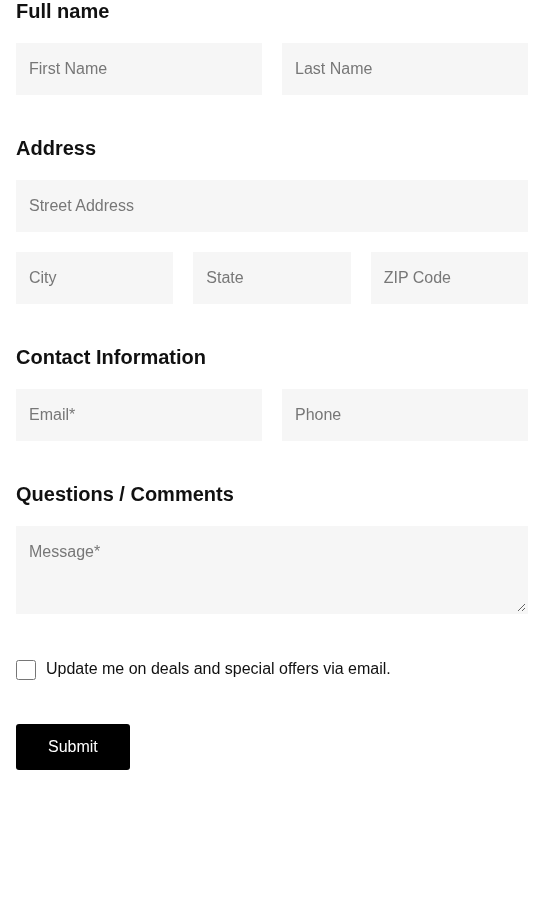
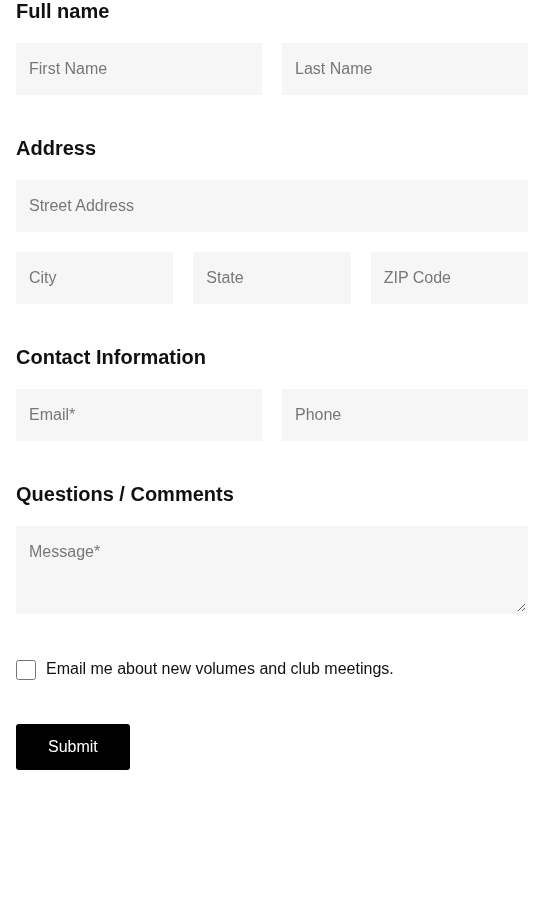
ЛР4: материалы читательского клуба и обновлённый отчёт

Changed region(s): [[0.0938, 0.7156, 0.7188, 0.7778]]

diff --git a/lab-04/index.html b/lab-04/index.html
@@ -3,13 +3,13 @@
   <head>
     <meta charset="UTF-8" />
     <meta name="viewport" content="width=device-width, initial-scale=1" />
-    <title>Форма обратной связи</title>
+    <title>Читательский клуб: обратная связь</title>
     <link rel="stylesheet" href="style.css" />
     <script src="script.js" defer></script>
   </head>
   <body>
     <main>
-      <h1 class="visually-hidden">Contact form</h1>
+      <h1 class="visually-hidden">Book club contact form</h1>
       <form id="contact-form" lang="en">
         <fieldset>
           <legend>Full name</legend>
@@ -89,7 +89,7 @@
         </fieldset>
         <label class="consent">
           <input type="checkbox" name="updates" value="yes" />
-          <span>Update me on deals and special offers via email.</span>
+          <span>Email me about new volumes and club meetings.</span>
         </label>
         <button type="submit">Submit</button>
       </form>

diff --git a/lab-04/report/report.tex b/lab-04/report/report.tex
@@ -81,7 +81,7 @@
 \setcounter{page}{2}
 
 \section{Цель и выполнение работы}
-Цель работы: сверстать форму обратной связи по образцу.
+Цель работы: сверстать форму обратной связи читательского клуба по образцу.
 
 Форма содержит имя и фамилию, адрес, город, регион, почтовый индекс, email, телефон, сообщение и флажок подписки. Связанные поля объединены элементом \code{fieldset} с заголовком \code{legend}. Атрибут \code{aria-label} задаёт доступные имена полей ввода и сообщения.
 

diff --git a/lab-04/README.md b/lab-04/README.md
@@ -12,7 +12,7 @@ python3 -m http.server 8000
 
 Адрес: <http://localhost:8000/lab-04/>.
 
-Форма повторяет поля и расположение элементов образца. Email и сообщение обязательны: их проверяет браузер. Обработчик события submit отменяет отправку, данные остаются в полях. При ширине окна до 420 px поля располагаются в одну колонку.
+Форма обратной связи клуба «Манга после занятий» повторяет поля и расположение элементов образца. Email и сообщение обязательны: их проверяет браузер. Обработчик события submit отменяет отправку, данные остаются в полях. При ширине окна до 420 px поля располагаются в одну колонку.
 
 ## Отчёт
 
